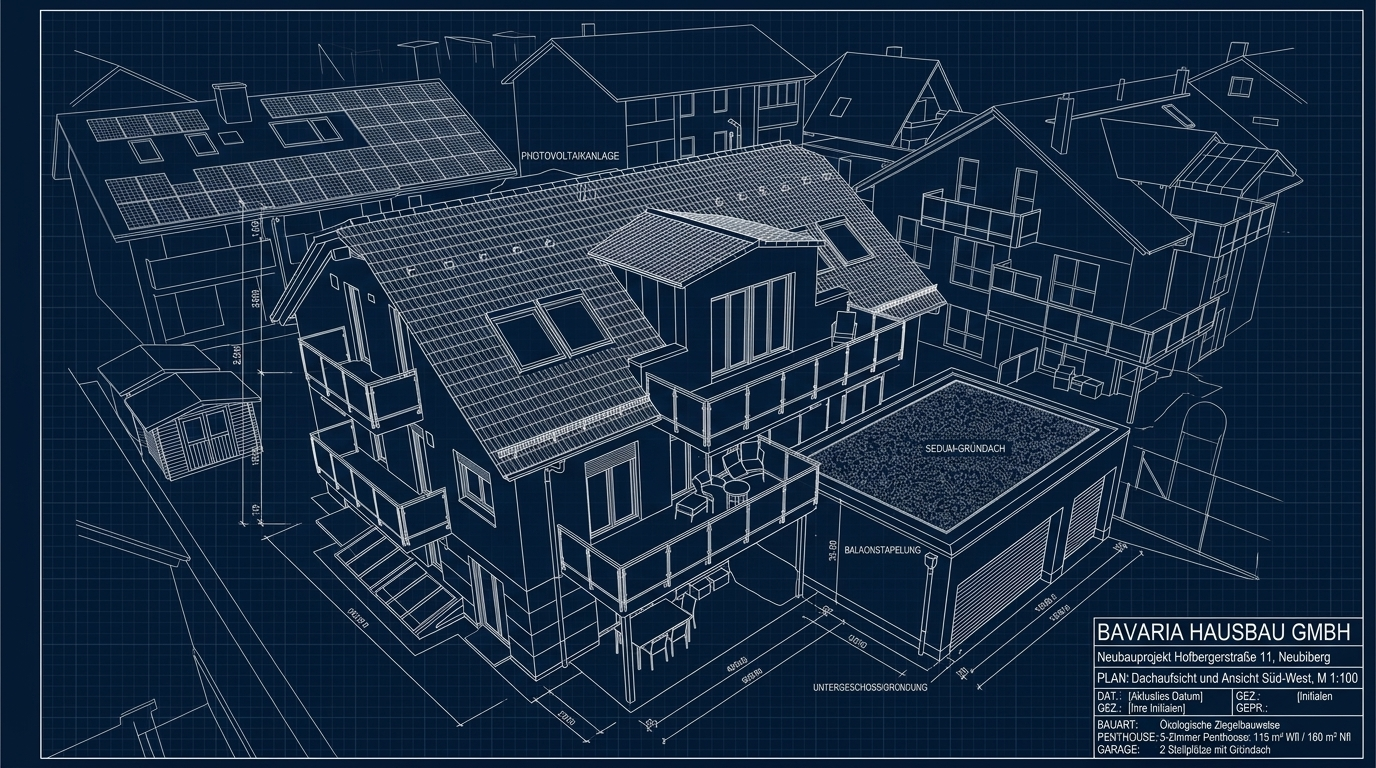
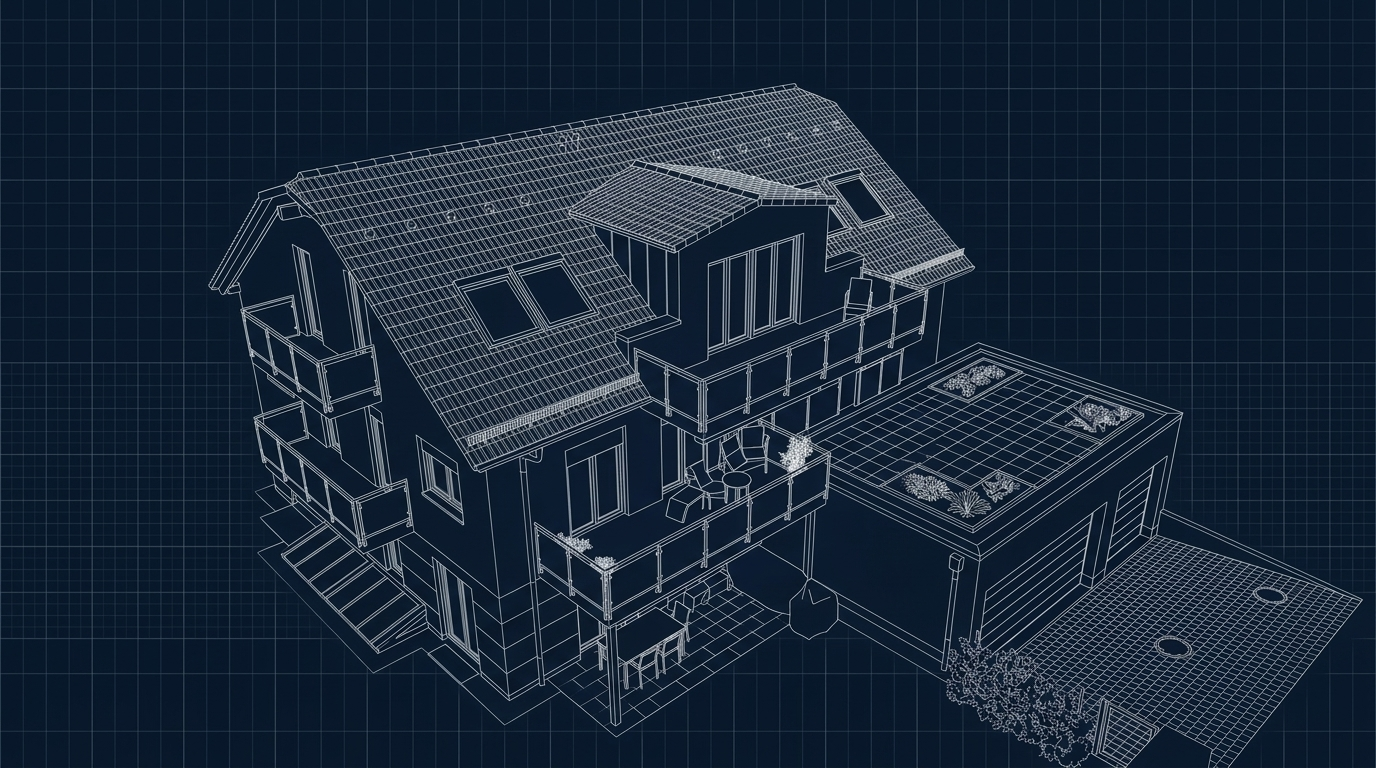
feat: Remove ring, strengthen flashlight beam & move hero text up-left with clean main-building CAD blueprint

diff --git a/assets/css/style.css b/assets/css/style.css
@@ -782,49 +782,10 @@ a:hover .btn-arrow {
   opacity: 1;
   z-index: 2;
   pointer-events: none;
+  filter: brightness(1.35) contrast(1.2);
   will-change: mask-image, -webkit-mask-image;
-  -webkit-mask-image: radial-gradient(circle 0px at 50% 50%, rgba(0,0,0,1) 0%, rgba(0,0,0,0.85) 35%, rgba(0,0,0,0.25) 70%, rgba(0,0,0,0) 100%);
-  mask-image: radial-gradient(circle 0px at 50% 50%, rgba(0,0,0,1) 0%, rgba(0,0,0,0.85) 35%, rgba(0,0,0,0.25) 70%, rgba(0,0,0,0) 100%);
-}
-
-/* Flashlight Ring element following cursor with soft ambient glow */
-.hero-flashlight-ring {
-  position: absolute;
-  top: 0;
-  left: 0;
-  width: 480px;
-  height: 480px;
-  border: 1px solid rgba(197, 168, 128, 0.6);
-  border-radius: 50%;
-  pointer-events: none;
-  z-index: 3;
-  transform: translate(-50%, -50%) scale(0.2);
-  opacity: 0;
-  transition: transform 0.25s cubic-bezier(0.16, 1, 0.3, 1), opacity 0.25s ease-out;
-  background: radial-gradient(circle, rgba(197, 168, 128, 0.15) 0%, rgba(197, 168, 128, 0.04) 50%, rgba(197, 168, 128, 0) 100%);
-  box-shadow: 0 0 60px rgba(197, 168, 128, 0.35), inset 0 0 40px rgba(197, 168, 128, 0.2);
-  display: flex;
-  align-items: flex-end;
-  justify-content: center;
-  padding-bottom: 2rem;
-}
-
-.hero-flashlight-ring.active {
-  transform: translate(-50%, -50%) scale(1);
-  opacity: 1;
-}
-
-.flashlight-tag {
-  font-size: 0.65rem;
-  font-weight: 800;
-  letter-spacing: 1.5px;
-  color: var(--color-accent);
-  background: rgba(15, 30, 54, 0.85);
-  padding: 0.25rem 0.75rem;
-  border-radius: var(--radius-round);
-  border: 1px solid rgba(197, 168, 128, 0.4);
-  backdrop-filter: blur(8px);
-  -webkit-backdrop-filter: blur(8px);
+  -webkit-mask-image: radial-gradient(circle 0px at 50% 50%, rgba(0,0,0,1) 0%, rgba(0,0,0,0.92) 40%, rgba(0,0,0,0.3) 75%, rgba(0,0,0,0) 100%);
+  mask-image: radial-gradient(circle 0px at 50% 50%, rgba(0,0,0,1) 0%, rgba(0,0,0,0.92) 40%, rgba(0,0,0,0.3) 75%, rgba(0,0,0,0) 100%);
 }
 
 .hero-vignette {
@@ -835,9 +796,9 @@ a:hover .btn-arrow {
   height: 100%;
   background: linear-gradient(
     135deg,
-    rgba(7, 13, 24, 0.90) 0%,
-    rgba(7, 13, 24, 0.60) 50%,
-    rgba(7, 13, 24, 0.30) 100%
+    rgba(7, 13, 24, 0.92) 0%,
+    rgba(7, 13, 24, 0.55) 45%,
+    rgba(7, 13, 24, 0.15) 100%
   );
   z-index: 4;
   pointer-events: none;
@@ -846,10 +807,12 @@ a:hover .btn-arrow {
 .hero-container {
   position: relative;
   z-index: 5;
-  padding-top: calc(var(--header-height) + 2rem);
-  padding-bottom: 4rem;
+  padding-top: calc(var(--header-height) + 0.5rem);
+  padding-bottom: 2rem;
   width: 100%;
   pointer-events: none;
+  display: flex;
+  align-items: flex-start;
 }
 
 .hero-main-content a,
@@ -859,22 +822,22 @@ a:hover .btn-arrow {
 }
 
 .hero-main-content {
-  max-width: 760px;
+  max-width: 580px;
 }
 
 .hero-badge {
   display: inline-flex;
   align-items: center;
-  gap: 0.6rem;
-  background: rgba(197, 168, 128, 0.12);
-  border: 1px solid rgba(197, 168, 128, 0.35);
-  padding: 0.45rem 1.1rem;
+  gap: 0.5rem;
+  background: rgba(197, 168, 128, 0.14);
+  border: 1px solid rgba(197, 168, 128, 0.4);
+  padding: 0.35rem 0.95rem;
   border-radius: var(--radius-round);
-  font-size: 0.8rem;
+  font-size: 0.75rem;
   font-weight: 700;
   letter-spacing: 0.8px;
   color: var(--color-accent);
-  margin-bottom: 1.5rem;
+  margin-bottom: 1rem;
   backdrop-filter: blur(12px);
   -webkit-backdrop-filter: blur(12px);
 }
@@ -888,28 +851,28 @@ a:hover .btn-arrow {
 }
 
 .hero-headline {
-  font-size: 3.75rem;
+  font-size: 3rem;
   line-height: 1.12;
   color: #FFFFFF;
   font-weight: 700;
-  letter-spacing: -0.75px;
-  margin-bottom: 1.5rem;
+  letter-spacing: -0.5px;
+  margin-bottom: 1rem;
 }
 
 .hero-description {
-  font-size: 1.25rem;
-  line-height: 1.6;
+  font-size: 1.1rem;
+  line-height: 1.55;
   color: #CBD5E1;
   font-weight: 300;
-  margin-bottom: 2.5rem;
-  max-width: 680px;
+  margin-bottom: 1.75rem;
+  max-width: 540px;
 }
 
 .hero-actions {
   display: flex;
   flex-wrap: wrap;
-  gap: 1.25rem;
-  margin-bottom: 3rem;
+  gap: 1rem;
+  margin-bottom: 2rem;
 }
 
 .hero-trust-bar {

diff --git a/assets/js/main.js b/assets/js/main.js
@@ -208,12 +208,11 @@ function initScrollReveal() {
 /**
  * Controls interactive CAD Blueprint Flashlight Scanner on Mouse Hover.
  * Displays the photorealistic Traumhaus render by default,
- * and reveals the technical CAD blueprint in a glowing spotlight lens under the cursor.
+ * and reveals the technical CAD blueprint in a strong, soft-feathered spotlight beam under the cursor.
  */
 function initHeroFlashlight() {
   const heroSection = document.getElementById('hero');
   const blueprintImg = document.getElementById('heroBlueprintFlashlight');
-  const flashlightRing = document.getElementById('heroFlashlightRing');
 
   if (!heroSection || !blueprintImg) return;
 
@@ -223,18 +222,15 @@ function initHeroFlashlight() {
   let targetY = window.innerHeight / 2;
   let radius = 0;
   let targetRadius = 0;
-  let isHovered = false;
 
   const onMouseMove = (e) => {
     const rect = heroSection.getBoundingClientRect();
     targetX = e.clientX - rect.left;
     targetY = e.clientY - rect.top;
-    isHovered = true;
-    targetRadius = 210; // 210px radius flashlight lens
+    targetRadius = 360; // Strong 360px radius flashlight beam
   };
 
   const onMouseLeave = () => {
-    isHovered = false;
     targetRadius = 0;
   };
 
@@ -245,20 +241,10 @@ function initHeroFlashlight() {
     radius += (targetRadius - radius) * 0.15;
 
     if (blueprintImg) {
-      // Soft feathered flashlight beam (fades smoothly towards edges)
-      const maskStr = `radial-gradient(circle ${radius.toFixed(1)}px at ${currentX.toFixed(1)}px ${currentY.toFixed(1)}px, rgba(0,0,0,1) 0%, rgba(0,0,0,0.85) 35%, rgba(0,0,0,0.25) 70%, rgba(0,0,0,0) 100%)`;
+      // Strong feathered flashlight beam (fades smoothly towards edges)
+      const maskStr = `radial-gradient(circle ${radius.toFixed(1)}px at ${currentX.toFixed(1)}px ${currentY.toFixed(1)}px, rgba(0,0,0,1) 0%, rgba(0,0,0,0.92) 40%, rgba(0,0,0,0.3) 75%, rgba(0,0,0,0) 100%)`;
       blueprintImg.style.maskImage = maskStr;
       blueprintImg.style.webkitMaskImage = maskStr;
-    }
-
-    if (flashlightRing) {
-      flashlightRing.style.left = `${currentX.toFixed(1)}px`;
-      flashlightRing.style.top = `${currentY.toFixed(1)}px`;
-      if (isHovered && radius > 20) {
-        flashlightRing.classList.add('active');
-      } else {
-        flashlightRing.classList.remove('active');
-      }
     }
 
     requestAnimationFrame(renderFrame);
@@ -273,8 +259,7 @@ function initHeroFlashlight() {
       const rect = heroSection.getBoundingClientRect();
       targetX = e.touches[0].clientX - rect.left;
       targetY = e.touches[0].clientY - rect.top;
-      isHovered = true;
-      targetRadius = 180;
+      targetRadius = 280;
     }
   }, { passive: true });
 

diff --git a/index.html b/index.html
@@ -57,13 +57,8 @@
       <!-- Base Layer: Real Aerial Photo of Neubiberg Penthouse Project -->
       <img src="assets/images/hero-neubiberg-render.jpg" alt="BAVARIA Penthouse Neubiberg Hofbergerstraße" class="hero-bg-image hero-bg-render">
       
-      <!-- Overlay Layer: German Technical CAD Blueprint (Soft Radial Mask Flashlight) -->
-      <img src="assets/images/hero-neubiberg-blueprint.jpg" alt="BAVARIA CAD Bauplan Neubiberg 1:100" class="hero-bg-image hero-bg-blueprint" id="heroBlueprintFlashlight">
-      
-      <!-- Glowing Lens Ring following cursor -->
-      <div class="hero-flashlight-ring" id="heroFlashlightRing">
-        <span class="flashlight-tag">CAD BAUPLAN SCAN</span>
-      </div>
+      <!-- Overlay Layer: Clean CAD Blueprint (Strong Soft Radial Mask Flashlight) -->
+      <img src="assets/images/hero-neubiberg-blueprint.jpg" alt="BAVARIA CAD Bauplan Neubiberg" class="hero-bg-image hero-bg-blueprint" id="heroBlueprintFlashlight">
 
       <!-- Dark Ambient Vignette -->
       <div class="hero-vignette"></div>
